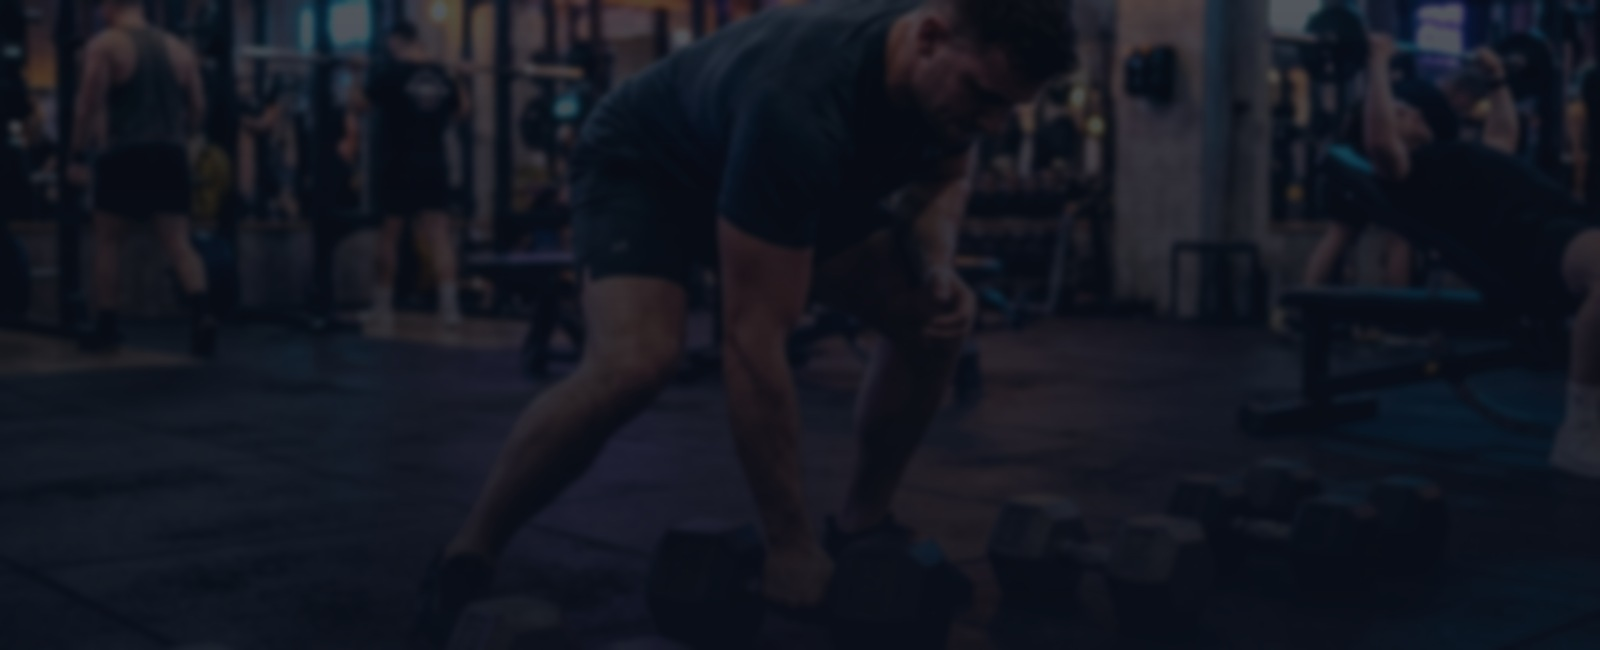
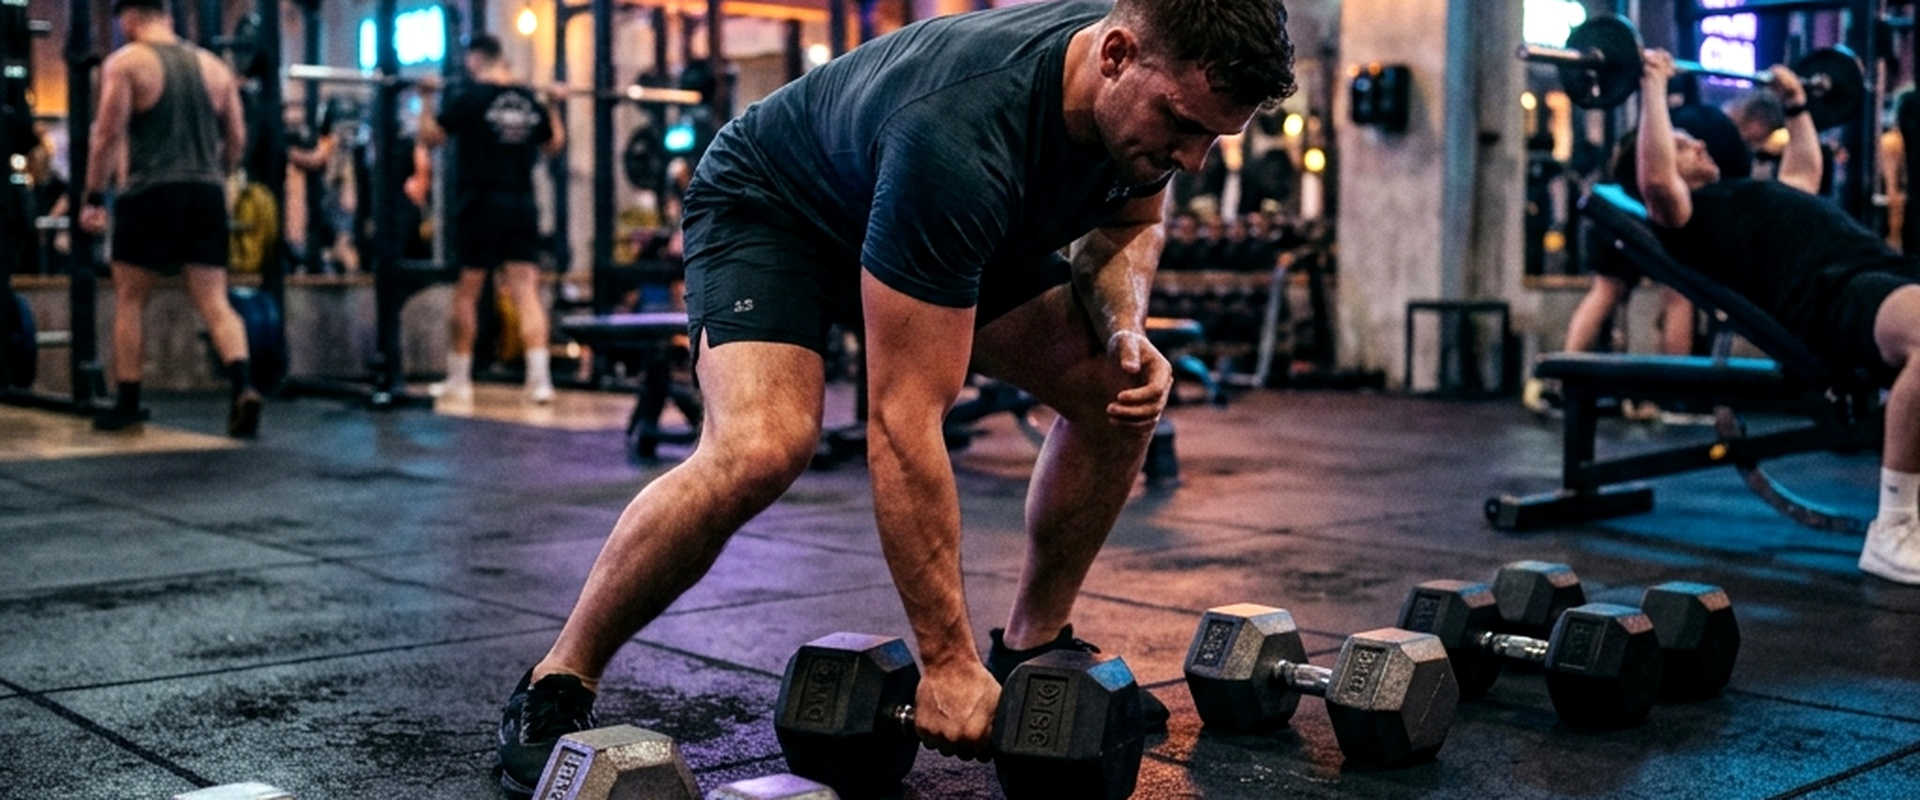
Set gym image as full-width section background behind CTA box with clear subtle dark overlay

diff --git a/styles.css b/styles.css
@@ -2555,33 +2555,48 @@ button, input, select, textarea {
 /* ==========================================================================
    GYM CTA BANNER WITH DARK OVERLAY
    ========================================================================== */
-.cta-banner-card {
+/* ==========================================================================
+   FULL-WIDTH GYM SECTION BACKGROUND WITH GLASS CARD
+   ========================================================================== */
+.cta-fullwidth-section {
   position: relative;
+  width: 100%;
+  padding: 5rem 0;
   background-image: url('gym-cta-bg.jpg');
   background-size: cover;
   background-position: center;
   background-repeat: no-repeat;
-  border: 1px solid var(--border-color);
-  border-radius: var(--radius-lg);
-  padding: 4rem 2rem;
-  text-align: center;
   overflow: hidden;
-  box-shadow: 0 10px 30px rgba(0,0,0,0.5);
 }
 
-.cta-banner-overlay {
+/* Subtle, clear, natural dark overlay on section background (keeps gym details clear) */
+.cta-section-overlay {
   position: absolute;
   top: 0;
   left: 0;
   width: 100%;
   height: 100%;
-  background: linear-gradient(180deg, rgba(10, 15, 26, 0.78) 0%, rgba(10, 15, 26, 0.92) 100%);
+  background: linear-gradient(180deg, rgba(15, 23, 42, 0.25) 0%, rgba(15, 23, 42, 0.45) 100%);
   z-index: 1;
+}
+
+/* Card sitting in center on top of section background */
+.cta-banner-card {
+  position: relative;
+  z-index: 2;
+  background: rgba(15, 23, 42, 0.8);
+  backdrop-filter: blur(12px);
+  -webkit-backdrop-filter: blur(12px);
+  border: 1px solid rgba(255, 255, 255, 0.25);
+  border-radius: var(--radius-lg);
+  padding: 3.5rem 2rem;
+  text-align: center;
+  box-shadow: 0 20px 40px rgba(0,0,0,0.5);
+  max-width: 850px;
+  margin: 0 auto;
 }
 
 .cta-banner-content {
   position: relative;
-  z-index: 2;
-  max-width: 650px;
-  margin: 0 auto;
+  z-index: 3;
 }

diff --git a/index.html b/index.html
@@ -302,16 +302,16 @@
     <!-- ==========================================================================
          CALL TO ACTION CONTACT BANNER (WITH GYM BG & DARK OVERLAY)
          ========================================================================== -->
-    <section class="section">
-      <div class="container">
+    <section class="cta-fullwidth-section">
+      <div class="cta-section-overlay"></div>
+      <div class="container" style="position: relative; z-index: 2;">
         <div class="cta-banner-card">
-          <div class="cta-banner-overlay"></div>
           <div class="cta-banner-content">
             <span class="section-tag">READY FOR CHANGE?</span>
             <h2 style="font-size: 2.2rem; font-weight: 900; margin-bottom: 1rem; color: #ffffff; text-shadow: 0 2px 10px rgba(0,0,0,0.8);">
               準備好打造全新的理想體態了嗎？
             </h2>
-            <p style="color: rgba(255, 255, 255, 0.85); font-size: 1.05rem; max-width: 580px; margin: 0 auto 2.25rem;">
+            <p style="color: rgba(255, 255, 255, 0.9); font-size: 1.05rem; max-width: 580px; margin: 0 auto 2.25rem;">
               專業團隊隨時提供一對一諮詢、個人化飲食計畫與精準訓練指導。
             </p>
             <a href="contact.html" class="btn-primary" style="padding: 0.9rem 2.75rem; font-size: 1.05rem; box-shadow: 0 0 20px rgba(255,255,255,0.25);">
